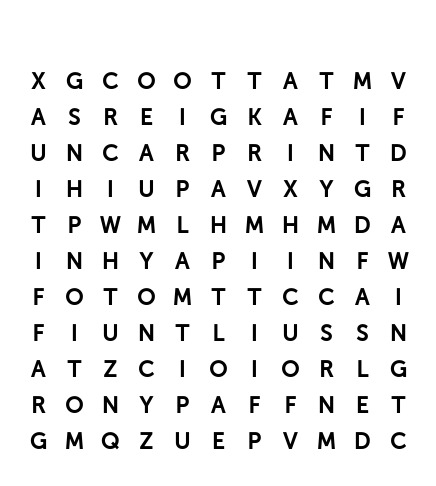
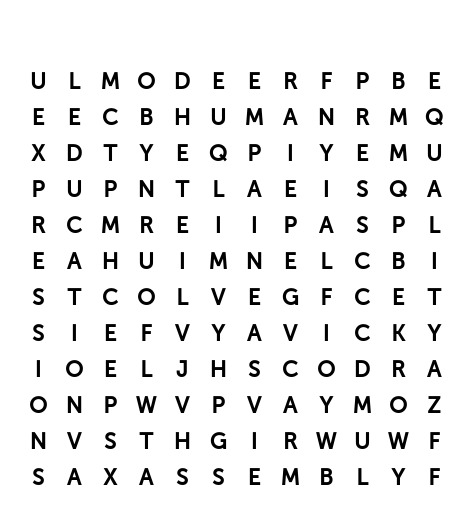
game8

diff --git a/app/words.ts b/app/words.ts
@@ -1,4 +1,25 @@
 export const WORDS = [
+  "human",
+  "rights",
+  "freedom",
+  "peace",
+  "assembly",
+  "speech",
+  "equality",
+  "work",
+  "movement",
+  "privacy",
+  "belief",
+  "press",
+  "education",
+  "asylum",
+  "dignity",
+  "expression"
+];
+
+/*
+
+export const WORDS = [
   "tattoo",
   "motion",
   "paint",
@@ -12,8 +33,6 @@ export const WORDS = [
   "animation",
   "print"
 ];
-
-/*
 
 export const WORDS = [
   "public",
